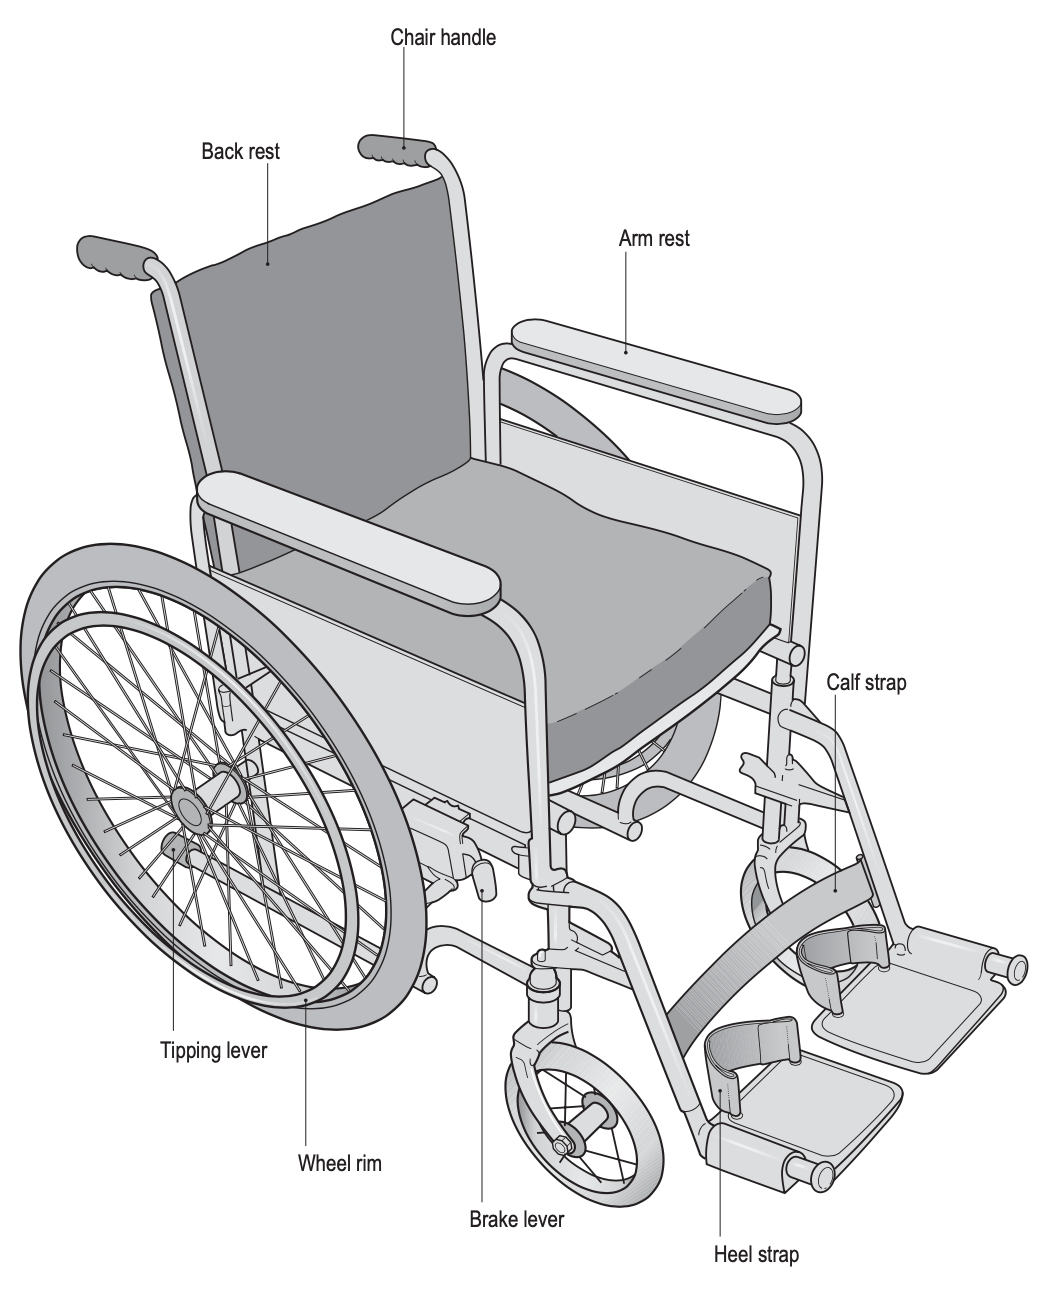
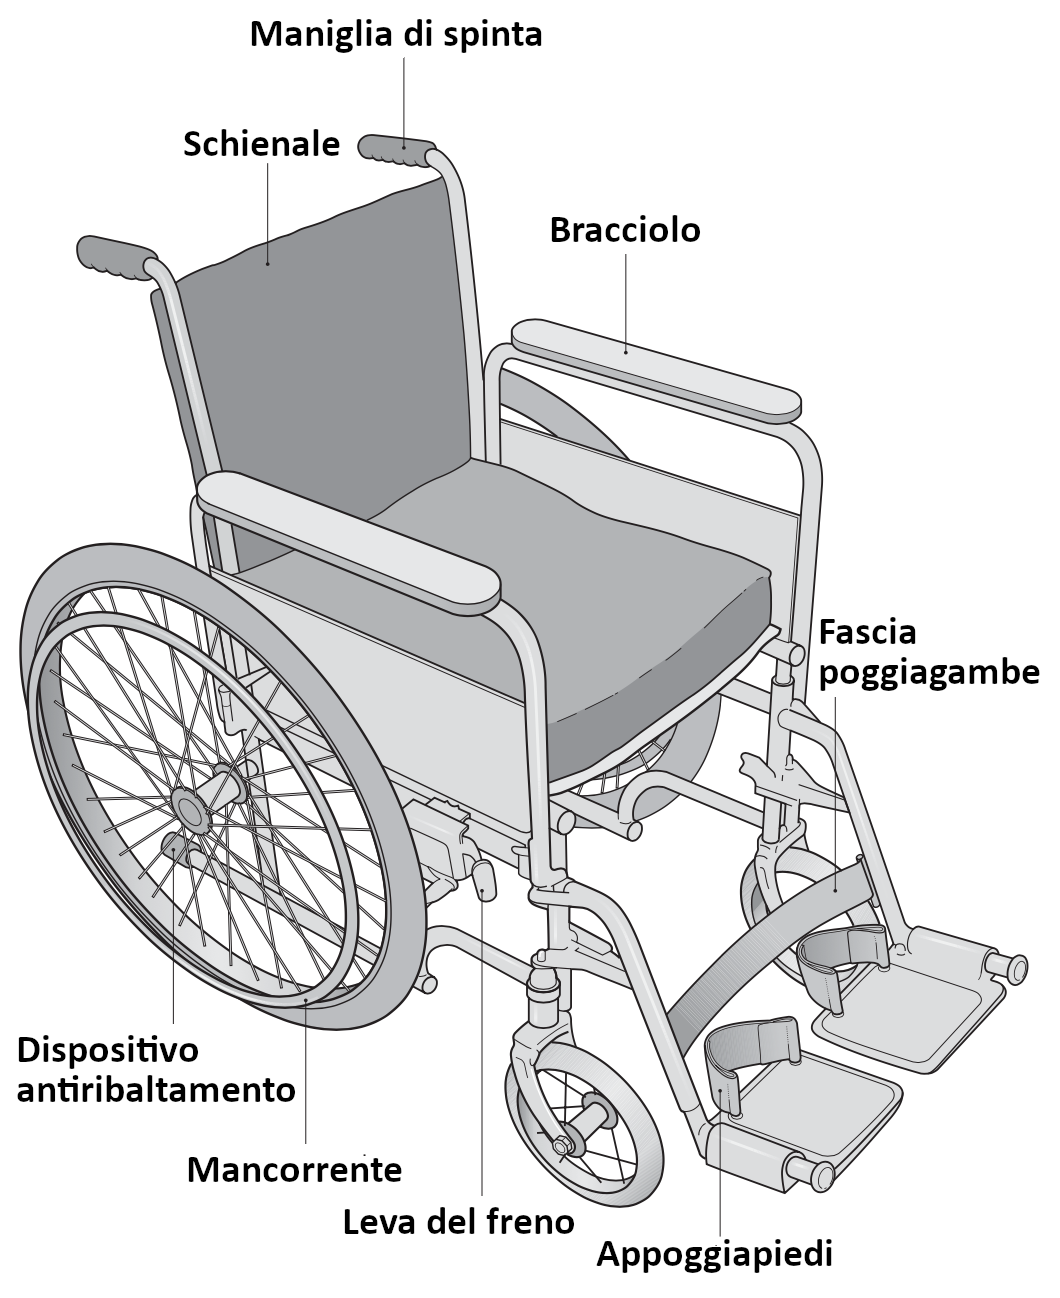
Commit olmo Postura senza immagini

diff --git a/articles/postura-e-trasferimenti.html b/articles/postura-e-trasferimenti.html
@@ -1,3 +1,249 @@
 <div class="chapter-container">
     <h1>POSTURA E TRASFERIMENTI</h1>
+    <p>Una corretta postura in carrozzina e a letto ti consentirà di diminuire molto la possibilità di
+        sviluppare gravi problemi come:
+    </p>
+    <ul>
+        <li><strong>Lesioni da pressione:</strong> per capire cosa sono e come prevenirle leggi il capitolo <a href="article.php?name=cura-della-pelle">cura della pelle</a>. Come leggerai, oltre all’abitudine di spostare il peso più volte durante la
+            giornata, è necessario che tu prenda quella di avere sempre una corretta postura in
+            carrozzina e di posizionarti bene a letto, per evitare così forze di taglio, stiramenti o
+            pressioni eccessive su alcune zone chiave della tua pelle.
+        </li>
+        <li><strong>Scoliosi:</strong> è una deformazione della colonna vertebrale che porta a deviazioni rispetto
+            alle curve fisiologiche. Questo può portare a gravi conseguenze come: accorciamenti
+            muscolari, riduzione delle funzionalità cardiorespiratoria e formazione di lesioni da
+            pressione. Una postura inadeguata mantenuta a lungo, soprattutto in persone con
+            una muscolatura debole a livello del tronco, può portare facilmente a questa
+            deformità e quindi è fondamentale che tu sappia quali posture mantenere e quali
+            evitare, oltre ad utilizzare ausili adatti alle tue esigenze (vedi il capitolo <a href="article.php?name=ausili">ausili</a>).
+        </li>
+        <li><strong>Tendinopatie:</strong> sono infiammazioni ai tendini che possono verificarsi, oltre che per
+            usura o sforzi eccessivi, anche per posture scorrette mantenute a lungo.
+        </li>
+        <li><strong>Contratture e retrazioni muscolari:</strong> dovute a un eccessivo affaticamento del
+            muscolo o a una posizione in accorciamento mantenuta a lungo (vedi il capitolo
+            <a href="article.php?name=problemi-associati">problemi associati</a>). Se non corrette possono portare anche ad un vero e proprio
+            “blocco” articolare (anchilosi).
+        </li>
+        <li><strong>Complicanze cardiorespiratorie:</strong> una cattiva postura cronica può influenzare la spina
+            dorsale e la gabbia toracica, che a sua volta può avere effetti negativi sui polmoni e
+            sul cuore.</li>
+    </ul>
+    <ul id="index" class="list-group">
+        <li class="list-group-item"><a href="#Postura-in-carrozzina">Postura in carrozzina</a></li>
+        <li class="list-group-item"><a href="#Postura-a-letto">Postura a letto</a></li>
+        <li class="list-group-item"><a href="#Trasferimenti">Trasferimenti</a></li>
+    </ul>
 </div>
+
+<div id="postura-in-carrozzina" class="chapter-container">
+    <h4>Postura in carrozzina</h4>
+    <p>La carrozzina, insieme al cuscino antidecubito, è l’ausilio più importante per le persone con
+        lesioni midollare e per questo è fondamentale che sia scelta e regolata correttamente (vedi
+        il capitolo <a href="article.php?name=ausili">ausili</a>). Tuttavia, per quanto una carrozzina regolata correttamente sia già un
+        “aiuto” al mantenimento della corretta postura, è necessaria anche una tua attenzione
+        attiva.
+        È importante cambiare frequentemente la postura sulla carrozzina ma devi anche sapere
+        come tornare a una postura ben dritta e simmetrica.
+        Ricorda che l’alterazione o l’assenza della sensibilità delle parti del corpo sotto il livello di
+        lesione potrebbe renderti difficile distinguere quando stai adottando una postura scorretta;
+        impara quindi a osservarti e a sfruttare la sensibilità delle parti del corpo sopra il livello di
+        lesione per controllare e correggere la tua postura.
+    </p>
+</div>
+
+<div class="rounded-pill banner"> Quando ti posizioni sulla carrozzina, devi sederti con la parte inferiore sul retro
+    del sedile ben appoggiata allo schienale, il tronco e la testa simmetrici, tutti e quattro gli
+    arti in appoggio nel normale allineamento, il peso distribuito uniformemente su un'area
+    ampia come possibile e le curve anatomiche della colonna vertebrale mantenute.
+</div>
+
+<div>
+    <p>Di seguito trovi un elenco degli elementi più importanti di una postura corretta in carrozzina
+        e cosa invece evitare, ma ricorda prima di tutto di seguire le indicazioni del tuo
+        fisioterapista, il quale potrebbe indicarti alcune modifiche posturali personalizzate.
+    </p>
+    <ul>
+        <li><strong>Comodità:</strong> mantenere la corretta postura in carrozzina dovrebbe essere facile e
+            comodo, se per seguire i consigli del fisioterapista devi stare scomodo o affaticarti, è
+            probabile che vadano riviste alcune regolazioni della carrozzina.
+        </li>
+        <li><strong>Scivolamento in avanti del sedere:</strong> da evitare, in quanto crea forze di taglio che
+            possono favorire la formazione di lesioni da pressione. Cerca quindi di posizionarti
+            indietro col sedere e, se ti accorgi che ti devi riposizionare troppo spesso, parlane col
+            tuo fisioterapista per considerare una possibile modifica al cuscino o alla carrozzina.
+            Le stesse considerazioni devono essere fatte se il sedere si inclina o ruota verso un
+            lato. Considera inoltre che ogni deviazione della posizione del sedere porta con sé
+            una conseguente alterazione della postura della schiena.
+        </li>
+        <li><strong>Schiena dritta e appoggiata allo schienale:</strong> dovresti sempre essere in grado di
+            appoggiare la tua schiena comodamente allo schienale della carrozzina, senza
+            ritrovarti troppo flesso in avanti o indietro, né piegato da un lato. Se mantenere la
+            schiena dritta ti è difficile o ti affatica troppo è possibile che vada modificata
+            l’angolazione o l’altezza dello schienale.
+        </li>
+        <li><strong>Uso dei braccioli (se previsti per la tua carrozzina):</strong> i braccioli ti consentono di
+            appoggiare le braccia e scaricare il loro peso senza sforzare le spalle e alleggerendo il
+            carico sugli ischi. Sono regolati ad un’altezza pensata appositamente per svolgere
+            correttamente questa funzione, quindi se devi rimuoverli attento a rimetterli nella
+            stessa posizione.
+        </li>
+        <li><strong>Uso dell’appoggiapiedi:</strong> non sottovalutare l’importanza dell’uso delle/a pedane/a
+            appoggiapiedi in quanto servono a scaricare il peso delle gambe e a evitare lo
+            scivolamento del sedere in avanti.
+        </li>
+    </ul>
+    <p>Cerca quindi di prestare sempre attenzione alla tua posizione nella carrozzina e, se puoi,
+        correggi immediatamente posture scorrette, se invece non sei in grado di riposizionarti
+        autonomamente chiedilo al tuo caregiver.
+    </p>
+</div>
+
+<hr>
+
+<div id="postura-a-letto" class="chapter-container">
+    <h4>Postura a letto</h4>
+    <p>Quando sei a letto è necessario che tu sia correttamente posizionato supino (a pancia in su),
+        prono (a pancia in giù) o sul fianco e che tali posture siano modificate ad intervalli regolari.
+        Le regioni cutanee a rischio devono essere rigorosamente protette da materiale
+        antidecubito e mantenute in posizione con l’ausilio di cuscini o supporti adeguati. Inoltre, le
+        articolazioni non devono essere in posizioni che possano danneggiarle stirando i tessuti
+        capsulari o tendinei. La frequenza dei cambi posturali dipenderà dalle tue caratteristiche e
+        quindi ti saranno dati consigli personalizzati dal tuo fisioterapista in base alle tue esigenze.
+        In linea generale la postura supina va modificata almeno ogni 2 ore, mentre il decubito
+        prono può essere mantenuto per periodi più prolungati senza necessità di spostamenti:
+        durante la notte può consentire di dormire otto ore senza interruzione, previene le
+        deformità in flessione di anche e ginocchia e riduce l’ipertono agli arti inferiori. La posizione
+        prona va evitata nell’immediato periodo post-traumatico e se hai difficoltà respiratorie. In
+        postura supina è necessario fare molta attenzione alla regione sacrale e ai talloni; in
+        decubito laterale è importante proteggere le ginocchia, i trocanteri e i malleoli. La posizione
+        laterale a 90° è la meno consigliata per l’alta pressione che va a creare sui trocanteri.
+        Un’altra posizione da poter assumere a letto, soprattutto durante il giorno, è quella
+        semiseduta, che ti può permettere di socializzare o mangiare, se hai bisogno di rimanere a
+        letto.
+        Qui sotto troverai delle immagini per ogni posizione che puoi assumere a letto con accanto
+        una breve descrizione.
+    </p>
+</div>
+
+<div class="rounded-pill banner"> Il numero di cuscini utilizzati per ottenere la posizione ottimale dipende dalla loro
+    forma, consistenza e dimensione.
+</div>
+
+<div>
+    <ul>
+        <li class="m-3"><strong>Supino:</strong> un cuscino sostiene la testa, il collo e la parte superiore delle spalle. Un
+            cuscino (o più) sostiene le gambe, evitando così l’appoggio dei talloni sul letto. Un
+            cuscino, in fondo al letto, sostiene la pianta del piede e può servire ad alleggerire il
+            peso delle coperte. Puoi utilizzare dei cuscini su cui appoggiare le braccia lungo i
+            fianchi. Controlla di essere disposto al centro del letto.
+        </li>
+        <li class="m-3"><strong>Semiseduto 30°:</strong> i due snodi del letto sono inclinati a 30°. Un cuscino sostiene la
+            testa, il collo e la parte superiore delle spalle. Un cuscino sostiene le gambe,
+            evitando così l’appoggio dei talloni sul letto. Un cuscino (o più), in fondo al letto,
+            sostiene la pianta del piede e può servire ad alleggerire il peso delle coperte. Puoi
+            utilizzare dei cuscini su cui appoggiare le braccia lungo i fianchi. Controlla di essere
+            disposto al centro del letto e che il tuo bacino sia ben posizionato nella depressione
+            creata dal primo snodo.
+        </li>
+        <li class="m-3"><strong>Sul fianco a 30°:</strong> il corpo deve essere ruotato di circa 30° rispetto al piano del letto.
+            Un cuscino sostiene la testa. Un cuscino, dietro la schiena, sostiene il tronco e
+            consente di mantenere la posizione di rotazione. Un cuscino (o più) è posizionato fra
+            le gambe lievemente flesse e sostiene quella superiore, che sarà leggermente più
+            indietro rispetto a quella inferiore. Un cuscino in fondo al letto previene eventuali
+            urti dei piedi contro la pediera del letto. Se necessario puoi utilizzare un piccolo
+            cuscino o un supporto di gommapiuma foderato, per tenere il malleolo sollevato dal
+            letto/cuscino. Puoi utilizzare un cuscino per appoggiare il braccio superiore in una
+            posizione più comoda.
+        </li>
+        <li class="m-3"><strong>Sul fianco a 90°:</strong> questa posizione è la meno consigliata in quanto crea molta
+            pressione sul trocantere. Un cuscino sostiene la testa. Uno (o più) cuscini sostengono
+            la gamba superiore, leggermente piegata e spostata in avanti, in modo che sia
+            parallela al letto. Un cuscino in fondo al letto previene eventuali urti dei piedi contro
+            la pediera del letto. Puoi utilizzare un cuscino per appoggiare il braccio superiore in
+            una posizione più comoda.
+        </li>
+        <li class="m-3"><strong>Prono:</strong> in questa posizione il cuscino sotto la testa deve essere molto sottile o può
+            non esserci. Un cuscino sostiene torace e bacino riducendo la pressione su viso e
+            spalle. Un cuscino (o più) sostiene le gambe evitando lo stiramento della caviglia ed
+            evitando zone di pressione ristrette.
+        </li>
+    </ul>
+    <h5>Per le persone con tetraplegia</h5>
+    <p> È importante che il posizionamento degli arti superiori sia
+        particolarmente curato, anche a letto. Ricorda di seguire le specifiche indicazioni e
+        raccomandazioni date dal tuo fisioterapista/terapista occupazionale. Qui sotto trovi alcune
+        posizioni comunemente utilizzate nel posizionamento a letto per prevenire complicanze agli
+        arti superiori.
+    </p>
+</div>
+
+<hr>
+
+<div id="trasferimenti" class="chapter-container">
+    <h4>Trasferimenti</h4>
+    <p>A seconda delle tue caratteristiche e del livello della tua lesione, potrai raggiungere vari
+        gradi di autonomia nei trasferimenti e potresti dover compiere i trasferimenti con tecniche
+        o ausili diversi. Per questo non è possibile spiegarti ogni singolo metodo di trasferimento,
+        cosa di cui invece si occuperà il tuo fisioterapista e/o terapista occupazionale, con il quale ti
+        allenerai a raggiungere la massima autonomia, efficienza e sicurezza possibili. Ci sono però
+        delle regole generali di sicurezza e di prevenzione che è sempre bene tenere a mente per
+        evitare cadute, lesioni da pressione e altri problemi. Questi consigli possono essere utili
+        anche per i caregiver che assistono o si occupano dei tuoi trasferimenti.
+    </p>
+    <ul>
+        <li><strong>Avvicina il più possibile le due superfici di trasferimento:</strong> una distanza più
+            ampia comporterà uno sforzo maggiore e un maggior rischio di cadute o di errori
+            nella manovra.
+        </li>
+        <li><strong>Assicurati che le superfici di trasferimento siano a un’altezza più o meno simile:</strong> al massimo la superficie su cui ti vuoi trasferire può essere un po’ più bassa. Questa
+            accortezza, oltre a rendere la manovra meno faticosa e più sicura, limita il rischio di
+            urti e abrasioni che potrebbero portare a lesioni da pressione.
+        </li>
+        <li><strong>Assicurati che le superfici di trasferimento siano stabili:</strong> se devi trasferirti, da o su la
+            carrozzina, assicurati che i freni siano ben inseriti, così come per qualsiasi altra
+            superficie/ausilio su ruote.
+        </li>
+        <li><strong>Assicurati che gli appoggi per il trasferimento siano stabili:</strong> non basta infatti che le
+            superfici siano stabili se ti appoggi su una loro parte instabile o che per esempio non
+            è fatta per supportare il tuo peso. Inoltre, se hai bisogno di usare un maniglione o
+            qualcosa di simile, come appoggio per il trasferimento, assicurati che sia ben fissato
+            e sicuro prima di appoggiarci il tuo peso (soprattutto in luoghi pubblici o in cui compi
+            il trasferimento per la prima volta).
+        </li>
+        <li><strong>Presta attenzione alla posizione delle tue gambe:</strong> è importante sempre considerare
+            dove sono le tue gambe e posizionarle in modo adeguato prima della manovra di
+            trasferimento, per evitare che possano battere contro qualcosa o rimanere
+            addirittura incastrate. Questo, oltre a rendere la manovra più faticosa e più a rischio
+            di cadute, potrebbe aumentare il rischio di lesioni da pressione in seguito a urti o
+            abrasioni.
+        </li>
+        <li><strong>Considera la possibilità di farti aiutare:</strong> è importante che tu raggiunga la massima
+            autonomia di cui sei capace, ma questo non vuol dire che se ti senti insicuro in un
+            trasferimento tu non debba chiedere aiuto. Se per qualsiasi ragione hai dei dubbi o
+            insicurezze su un trasferimento non esitare a chiedere un aiuto, per esempio al tuo
+            caregiver o a un familiare, piuttosto che rischiare un trasferimento non sicuro.
+            L’aiuto può essere anche semplicemente quello di “sorvegliarti” mentre svolgi la
+            manovra, in maniera da poter intervenire tempestivamente se qualcosa andasse
+            storto.
+        </li>
+        <li><strong>Considera l’economia articolare:</strong> è possibile che tu debba svolgere molti
+            trasferimenti durante la giornata ed è quindi fondamentale che tu cerchi di sforzare
+            il meno possibile le tue articolazioni ad ogni manovra per evitare di causare lesioni o
+            infiammazioni alle articolazioni più sovraccaricate. Per maggiori informazioni leggi il
+            capitolo <a href="article.php?name=economia-articolare">economia articolare</a>. Considera l’utilizzo dei guanti da carrozzina anche
+            durante i trasferimenti, in quanto, creando più attrito su alcune superfici possono
+            ridurre lo sforzo della tua mano e diminuire la possibilità che la mano scivoli dalla
+            presa.
+        </li>
+        <li>Infine, prima di eseguire il trasferimento, considera come i movimenti involontari
+            provocati da uno spasmo o la resistenza al movimento dovuta alla spasticità possono
+            interferire.
+        </li>
+    </ul>
+</div>
+
+<hr>
+
+<div id="riferimenti" class="chapter-container">
+    <h6>Riferimenti</h6>

diff --git a/articles/ausili.html b/articles/ausili.html
@@ -181,8 +181,8 @@
 <div id="carrozzina-manuale" class="chapter-container">
     <h4>Carrozzina manuale</h4>
     <div class="row" style="margin: 3rem 0;">
-        <div class="col-6"<img class="img-fluid rounded" style="height: 500px; display:block; margin:auto" src="assets/img/ausili/carrozzina-bw"></div>
-        <div class="col-6"<img class="img-fluid rounded" style="height: 500px; display:block; margin:auto" src="assets/img/ausili/carrozzina-colori"></div>
+        <div class="col-6"><img class="img-fluid rounded" style="height: 500px; display:block; margin:auto" src="assets/img/ausili/carrozzina-bw.png"></div>
+        <div class="col-6"><img class="img-fluid rounded" style="height: 500px; display:block; margin:auto" src="assets/img/ausili/carrozzina-colori.jpg"></div>
     </div>
     <p>Se si dispone di funzionalità sufficiente per spingerla, la carrozzina manuale è probabilmente
         la migliore forma di mobilità. Le carrozzine manuali sono facili da trasportare e richiedono
